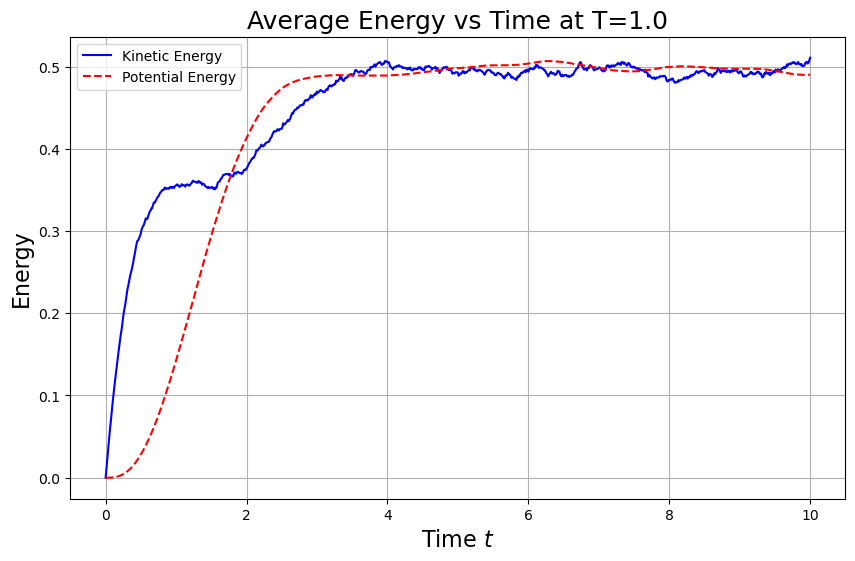
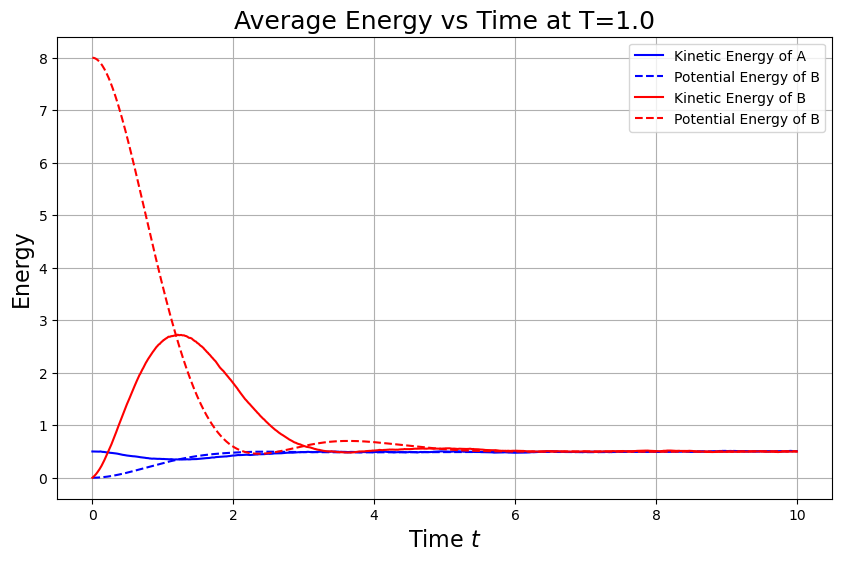
A almost finished ,B find the slope

diff --git a/code/B.py b/code/B.py
@@ -41,6 +41,7 @@ def calculate_x_abs_mean(t0:int,tf: int, num: int, choices: list) -> np.ndarray:
             else:
                 choice = rand.randint(0, 1)
                 position += choices[choice]
+    x_mean = x_mean[t0:tf]
     return x_mean / num,time_ndarray
 
 
@@ -67,27 +68,55 @@ def plot_x_abs_mean(x_mean:np.ndarray,t:int):
     plt.savefig(path, bbox_inches='tight')
     plt.show()
 
-def plot_x_abs_mean_log_fit(x_mean:np.ndarray,t:int,time_ndarry:np.ndarray):
-    x_mean = np.log(x_mean)
-    time_ndarry = np.log(time_ndarry)
-    plt.plot(time_ndarry,x_mean,label='data')
-    parmas = np.polyfit(time_ndarry,x_mean,1)
-    slope,intercept = parmas
-    plt.plot(time_ndarry,np.polyval(parmas,time_ndarry),'r',label =f'log<|x|> = {slope}*log(t)+{intercept}')
-    plt.xlabel('log(t)',fontsize=20)
-    plt.ylabel(r'log(<|x|>)',fontsize=20)
-    plt.title(r'resolution of <|x|>',fontsize=20)
+# def plot_x_abs_mean_log_fit(x_mean:np.ndarray,t:int,time_ndarry:np.ndarray):
+#     x_mean = np.log(x_mean)
+#     time_ndarry = np.log(time_ndarry)
+#     plt.plot(time_ndarry,x_mean,label='data')
+#     parmas = np.polyfit(time_ndarry,x_mean,1)
+#     slope,intercept = parmas
+#     plt.plot(time_ndarry,np.polyval(parmas,time_ndarry),'r',label =f'log<|x|> = {slope}*log(t)+{intercept}')
+#     plt.xlabel('log(t)',fontsize=20)
+#     plt.ylabel(r'log(<|x|>)',fontsize=20)
+#     plt.title(r'resolution of <|x|>',fontsize=20)
+#     plt.grid(True)
+#     path = f"./figures/B_log_t={t}_fit.png"
+#     plt.savefig(path, bbox_inches='tight')
+#     plt.show()
+    
+
+def plot_x_abs_mean_log_fit(x_mean: np.ndarray, t: int,t0:int, time_ndarray: np.ndarray):
+    # 对 x_mean 和 time_ndarray 取对数
+    log_x_mean = np.log(x_mean)
+    log_time_ndarray = np.log(time_ndarray)
+
+    # 进行线性拟合
+    params = np.polyfit(log_time_ndarray, log_x_mean, 1)
+    slope, intercept = params
+
+    # 绘制数据点和拟合直线
+    plt.figure(figsize=(8, 6))
+    plt.plot(log_time_ndarray, log_x_mean, 'o', label='Data (log-log)', markersize=5)
+    plt.plot(log_time_ndarray, np.polyval(params, log_time_ndarray), 'r-', 
+             label=f'Fit: log(<|x|>) = {slope:.6f} * log(t) + {intercept:.6f}')
+
+    # 设置图形属性
+    plt.xlabel('log(t)', fontsize=20)
+    plt.ylabel(r'log(<|x|>)', fontsize=20)
+    plt.title(r'Log-Log Fit of <|x|> vs t', fontsize=20)
+    plt.legend(fontsize=12)
     plt.grid(True)
-    path = f"./figures/B_log_t={t}_fit.png"
+
+    # 保存图像
+    path = f"./figures/B_log_from_{t0}_to_{t}_fit.png"
     plt.savefig(path, bbox_inches='tight')
     plt.show()
-    
 
 if __name__ == '__main__':
     t = 1000
     num = 10000
-    x_mean,time_ndarry = calculate_x_abs_mean(0,t,num,choices)
+    t0=120
+    x_mean,time_ndarry = calculate_x_abs_mean(t0,t,num,choices)
     # plot_x_abs_mean(x_mean,t)
     # plot_x_abs_mean_log(x_mean)
     # print(x_mean[:20])
-    plot_x_abs_mean_log_fit(x_mean,t,time_ndarry)
+    plot_x_abs_mean_log_fit(x_mean,t,t0,time_ndarry)

diff --git a/code/A_C.py b/code/A_C.py
@@ -1,0 +1,80 @@
+import numpy as np
+import matplotlib.pyplot as plt
+
+# ----------------------------
+# 新势能 V(x) = 0.5 * x^4 及其导数
+# ----------------------------
+def V(q: float) -> float:
+    return 0.5 * q**4
+
+def dV_dq(q: float) -> float:
+    return 2 * q**3
+
+def heun_for_kinetic_and_potential(q0: float, v0: float) -> tuple[np.ndarray, np.ndarray]:
+    q = np.zeros((N_particles, N_steps + 1))
+    v = np.zeros((N_particles, N_steps + 1))
+    q[:, 0] = q0
+    v[:, 0] = v0
+
+    kinetic = np.zeros(N_steps + 1)
+    potential = np.zeros(N_steps + 1)
+    kinetic[0] = np.sum(0.5 * v[:, 0]**2) / N_particles
+    potential[0] = np.sum(V(q[:, 0])) / N_particles
+
+    for i in range(N_steps):
+        dW = np.random.normal(0, np.sqrt(dt), N_particles)
+
+        v_tilde = v[:, i] + (-v[:, i] - dV_dq(q[:, i])) * dt + D * dW
+        q_tilde = q[:, i] + v[:, i] * dt
+
+        v[:, i + 1] = v[:, i] + 0.5 * ((-v[:, i] - dV_dq(q[:, i])) + (-v_tilde - dV_dq(q_tilde))) * dt + D * dW
+        q[:, i + 1] = q[:, i] + 0.5 * (v[:, i] + v_tilde) * dt
+
+        kinetic[i + 1] = np.sum(0.5 * v[:, i + 1]**2) / N_particles
+        potential[i + 1] = np.sum(V(q[:, i + 1])) / N_particles
+
+    return kinetic, potential
+
+def scan_temperature(T_list: list[float], q0: float = 0.0, v0: float = 0.0):
+    avg_Ek = []
+    avg_V = []
+
+    for T in T_list:
+        global D
+        D = np.sqrt(2 * T)
+
+        kinetic, potential = heun_for_kinetic_and_potential(q0, v0)
+
+        start_idx = int(0.8 * len(kinetic))
+        Ek_inf = np.mean(kinetic[start_idx:])
+        V_inf = np.mean(potential[start_idx:])
+
+        avg_Ek.append(Ek_inf)
+        avg_V.append(V_inf)
+
+    plt.figure(figsize=(8, 6))
+    plt.plot(T_list, avg_Ek, 'o-', label=r'$\langle E_k(\infty) \rangle$')
+    plt.plot(T_list, avg_V, 's--', label=r'$\langle V(\infty) \rangle$')
+    plt.plot(T_list, [0.5*T for T in T_list], 'k--', label=r'$0.5 T$ ')
+    plt.plot(T_list, [0.25*T for T in T_list], 'g--', label=r'$0.25 T$ ')
+    plt.xlabel('Temperature $T$', fontsize=20)
+    plt.ylabel('Average Energy', fontsize=20)
+    plt.title('Quartic Potential: Long-Time Average Energy vs Temperature', fontsize=20)
+    plt.legend()
+    plt.grid(True)
+    plt.savefig('./figures/temperature_scan_quartic.png', bbox_inches='tight')
+    plt.show()
+
+# ----------------------------
+# 主程序入口
+# ----------------------------
+if __name__ == "__main__":
+    T_total = 10.0
+    dt = 0.01
+    N_steps = int(T_total / dt)
+    N_particles = 10000
+    D = np.sqrt(2)  # 初始温度 T=1
+    t = np.linspace(0, T_total, N_steps + 1)
+
+    T_list = np.linspace(0.5, 5.0, 10)
+    scan_temperature(T_list)

diff --git a/code/A_for_different_tem.py b/code/A_for_different_tem.py
@@ -38,20 +38,22 @@ def heun_for_kinetic_and_potential(q0: float, v0: float, D: float, N_particles: 
 
     return kinetic, potential
 
-def plot_energy_vs_time(t: np.ndarray, kinetic: np.ndarray, potential: np.ndarray, temperature: float):
+def plot_energy_vs_time(t: np.ndarray, kinetic_A: np.ndarray, potential_A: np.ndarray,kinetic_B: np.ndarray, potential_B: np.ndarray, temperature: float):
     """
     画出在某一温度下，系统随时间演化的动能和势能
     """
     plt.figure(figsize=(10, 6))
-    plt.plot(t, kinetic, label="Kinetic Energy", color='blue')
-    plt.plot(t, potential, label="Potential Energy", color='red', linestyle='--')
+    plt.plot(t, kinetic_A, label="Kinetic Energy of A", color='blue')
+    plt.plot(t, potential_A, label="Potential Energy of B", color='blue', linestyle='--')
+    plt.plot(t, kinetic_B, label="Kinetic Energy of B", color='red')
+    plt.plot(t, potential_B, label="Potential Energy of B", color='red', linestyle='--')
     plt.xlabel('Time $t$', fontsize=16)
     plt.ylabel('Energy', fontsize=16)
     plt.title(f'Average Energy vs Time at T={temperature}', fontsize=18)
     plt.legend()
     plt.grid(True)
     os.makedirs('./figures', exist_ok=True)
-    plt.savefig(f'./figures/energy_vs_time_T{temperature}.png', bbox_inches='tight')
+    plt.savefig(f'./figures/energy_vs_time_T={temperature}_time={t[-1]}.png', bbox_inches='tight')
     plt.show()
 
 def simulate_temperature(T: float, N_particles: int, N_steps: int, dt: float):
@@ -74,7 +76,7 @@ def simulate_temperature(T: float, N_particles: int, N_steps: int, dt: float):
     print(f"B:T={T:.2f}: <E_k>={stead_k_B:.4f}, <V>={stead_v_B:.4f}")
 
     t = np.linspace(0, N_steps * dt, N_steps + 1)
-    plot_energy_vs_time(t, kinetic_A, potential_A, temperature=T)
+    plot_energy_vs_time(t, kinetic_A, potential_A,kinetic_B,potential_B, temperature=T)
 
 if __name__ == "__main__":
     T_total = 10.0
@@ -83,6 +85,6 @@ if __name__ == "__main__":
     N_particles = 10000
 
     # 多个温度下分别模拟
-    temperatures = [0.5, 1.0, 2.0, 4.0]
+    temperatures = [ 0.5,1.0,2.0,4.0,8.0,16.0]
     for T in temperatures:
         simulate_temperature(T, N_particles, N_steps, dt)

diff --git a/code/A_gpt.py b/code/A_gpt.py
@@ -5,11 +5,10 @@ import matplotlib.pyplot as plt
 # 势能函数与其导数
 # ----------------------------
 def V(q: float) -> float:
-    return 0.5 * q**2
+    return 0.5 * q**4
 
 def dV_dq(q: float) -> float:
-    return q
-
+    return 2*q**3
 # ----------------------------
 # Heun 方法模拟 Langevin 动力学，记录能量演化
 # ----------------------------
@@ -52,13 +51,13 @@ def plot_kinetic_and_potential_energy(E_k_over_time_A, V_over_time_A, E_k_over_t
     plt.title('Evolution of Ensemble-Averaged Kinetic and Potential Energy', fontsize=20)
     plt.legend()
     plt.grid(True)
-    plt.savefig('./figures/A_1.png', bbox_inches='tight')
+    plt.savefig('./figures/A_1_V=0.25X2.png', bbox_inches='tight')
     plt.show()
 
 # ----------------------------
 # 改变温度，计算充分弛豫后的平均能量
 # ----------------------------
-def scan_temperature(T_list: list[float], q0: float = 0.0, v0: float = 0.0):
+def scan_temperature(T_list: list[float], q0: float = 0.0, v0: float = 1.0):
     avg_Ek = []
     avg_V = []
 
@@ -69,7 +68,7 @@ def scan_temperature(T_list: list[float], q0: float = 0.0, v0: float = 0.0):
         kinetic, potential = heun_for_kinetic_and_potential(q0, v0)
 
         # 弛豫后取最后 20% 做时间平均
-        start_idx = int(0.8 * len(kinetic))
+        start_idx = int(0.95 * len(kinetic))
         Ek_inf = np.mean(kinetic[start_idx:])
         V_inf = np.mean(potential[start_idx:])
 
@@ -86,7 +85,7 @@ def scan_temperature(T_list: list[float], q0: float = 0.0, v0: float = 0.0):
     plt.title('Long-Time Average Energy vs Temperature', fontsize=18)
     plt.legend()
     plt.grid(True)
-    plt.savefig('./figures/temperature_scan.png', bbox_inches='tight')
+    plt.savefig('./figures/temperature_scan_V=0.25X2.png', bbox_inches='tight')
     plt.show()
 
 # ----------------------------
@@ -94,7 +93,7 @@ def scan_temperature(T_list: list[float], q0: float = 0.0, v0: float = 0.0):
 # ----------------------------
 if __name__ == "__main__":
     # 参数设置
-    T_total = 10.0
+    T_total = 20.0
     dt = 0.01
     N_steps = int(T_total / dt)
     N_particles = 10000

diff --git a/README.md b/README.md
@@ -27,7 +27,7 @@ $$m\dot{v} + \lambda v  = \xi(t),$$
 
 计算 $\langle v^2 \rangle$：稳态自洽解 -->
 
-由于 $v(t)$ 服从 Ornstein-Uhlenbeck 过程，其稳态解的方差 $\langle v^2 \rangle$ 满足以下关系：
+其稳态解的方差 $\langle v^2 \rangle$ 满足以下关系：
 $$\frac{d\langle v^2\rangle}{dt}=-2\frac\lambda m\langle v^2\rangle+\frac{D^2}{m^2}$$
 
 稳态时左边为零，得：
@@ -82,8 +82,47 @@ $其中\Delta W=\sqrt{\Delta t}\cdot\mathcal{N}(0,1)$在前后保持一致
 ![alt text](figures/A_1.png)
 
 
-### (b). 自己选择区间，改变温度，画出充分弛豫后系统的平均动能$\langle E_k(\infty) \rangle$ 平均势能$\langle V(\infty) \rangle$. 你从这个结果中发现了什么?(1分) hint: 物理量的系综平均和时间平均有什么关系?
-### (c). 将势能改为$V=\frac12x^4$并重复(b)的计算。你发现了什么差异?怎么理解这一差异?(1分)
+### (b). 改变温度，求解平均动能$\langle E_k(t) \rangle$ 和平均势能$\langle V(t) \rangle$的演化
+自己选择区间，改变温度，画出充分弛豫后系统的平均动能$\langle E_k(\infty) \rangle$ 平均势能$\langle V(\infty) \rangle$. 你从这个结果中发现了什么?(1分) hint: 物理量的系综平均和时间平均有什么关系?
+
+为了方便与(a)中的结果进行对比，选择与A相同的初态，并画出系统平均动能$\langle E_k(\infty) \rangle$ 平均势能$\langle V(\infty) \rangle$：
+温度T=0.5；
+![alt text](figures/energy_vs_time_T0.5.png)
+T=1:
+![alt text](figures/energy_vs_time_T1.0.png)
+T=2:
+![alt text](figures/energy_vs_time_T2.0.png)
+T=4:
+![alt text](figures/energy_vs_time_T4.0.png)
+T=8:
+![alt text](figures/energy_vs_time_T8.0.png)
+
+由以上结果可以发现：
+1. 对于不同的温度下，平均动能和平均势能随时间变化趋势大体相同，比如B初态下的动能都是先增大后减小的
+2. 不同温度下、不同初态下的动能和势能最终都会演化到一个稳定的值，且动能和势能的稳定值相同
+3. 动能和势能的稳定值与温度成正比
+
+提取充分弛豫后（时间较长后）动能和势能的平均值，进行验证：
+
+
+
+![alt text](image.png)
+
+上图证明了上述发现。并且可以观察到，平均动能$\langle E_k(t) \rangle$ 和平均势能$\langle V(t) \rangle$的关系为：
+$$\langle E_k(t) \rangle=\langle V(t) \rangle=\frac{T}{2}$$
+
+对不同的温度进行扫描，计算平均动能$\langle E_k(t) \rangle$ 和平均势能$\langle V(t) \rangle$，结果如下：
+![alt text](figures/temperature_scan.png)
+
+式子$\langle E_k(t) \rangle=\langle V(t) \rangle=\frac{T}{2}$得到验证。
+这对应了能均分定理。
+<!-- todo -->
+### (c). 将势能改为$V=\frac12x^4$
+将势能改为$V=\frac12x^4$并重复(b)的计算。你发现了什么差异?怎么理解这一差异?(1分)
+将势能改为$V=\frac12x^4$得到：
+![alt text](figures/temperature_scan_quartic.png)
+<!-- todo -->
+
 
 # B.梳子上的随机行走
 考虑在一个梳子状的晶格上的随机行走：
